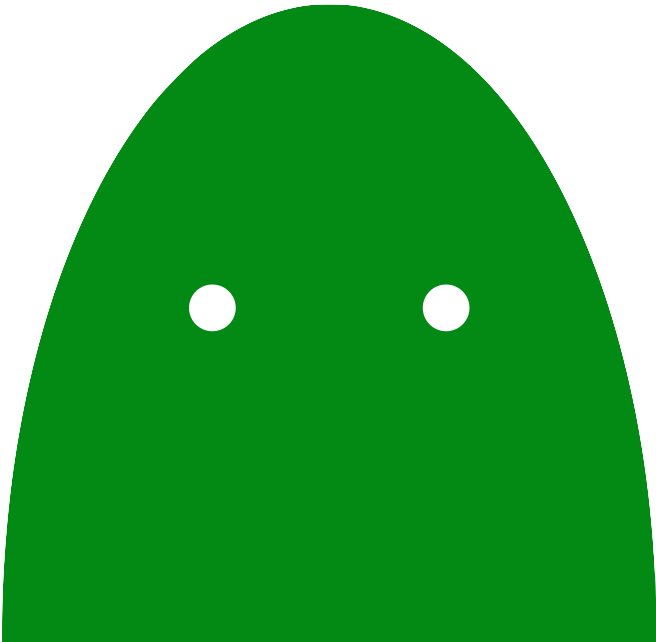
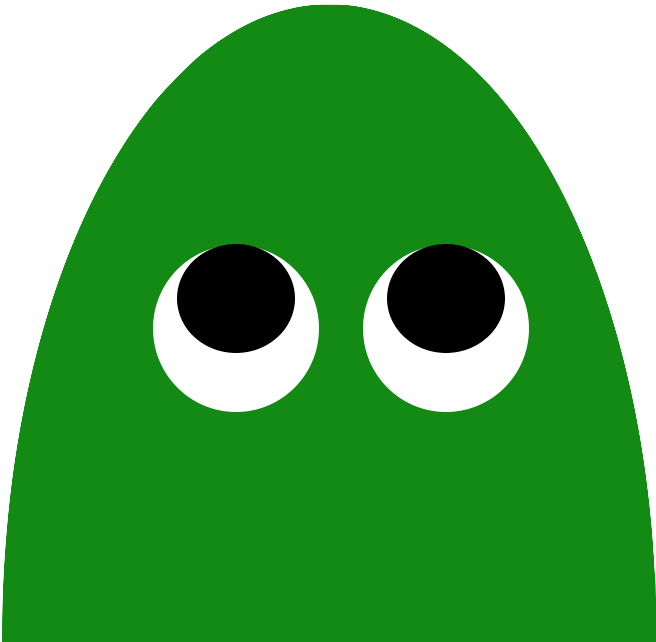
add instructions and change snake head

Changed region(s): [[0.5488, 0.3738, 0.8232, 0.6542], [0.2134, 0.3738, 0.4878, 0.6542]]

diff --git a/css/snake.css b/css/snake.css
@@ -12,9 +12,21 @@ figure {
   border: 10px solid black;
   border-radius: 5px;
   left: 50%;
-  margin-left: -200px;
+  margin-left: -210px;
   overflow: hidden;
   background-color: #C2D0BC;
+}
+
+.instructions {
+  border-radius: 5px;
+  height: 50px;
+  position: absolute;
+  width: 400px;
+  border: 1px black solid;
+  padding: 9px;
+  left: 50%;
+  margin-left: -210px;
+  text-align: center;
 }
 
 h1 {
@@ -42,11 +54,11 @@ li {
   padding-top: 30%;
 }
 
-.button {
+button {
   border-radius: 5px;
   border: none;
   padding: 5px;
-  background-color: white;
+  background-color: rgba(255, 255, 255, 0.85);
 }
 
 .score {

diff --git a/html/index.html b/html/index.html
@@ -8,7 +8,13 @@
 
   <body>
     <h1>Snake</h1>
+    <div class="high-scores"></div>
     <figure class="snake-game"></figure>
+    <div class="instructions">
+      Use the arrow keys to navigate.<br>
+      Avoid running into walls and yourself.<br>
+      Earn points by picking up apples.<br>
+    </div>
 
     <script src="../js/jquery-1.9.1.js"></script>
     <script src="../js/coord.js"></script>

diff --git a/js/snake-view.js b/js/snake-view.js
@@ -62,7 +62,7 @@
     this.updateClasses([this.board.apple.position], "apple");
     this.removeRotations();
     this.updateHeadAndTail();
-    this.$el.find(".score").html(this.board.snake.score);
+    this.$el.find(".score").html("Score: " + this.board.snake.score);
   };
 
   View.prototype.updateClasses = function(items, className) {
